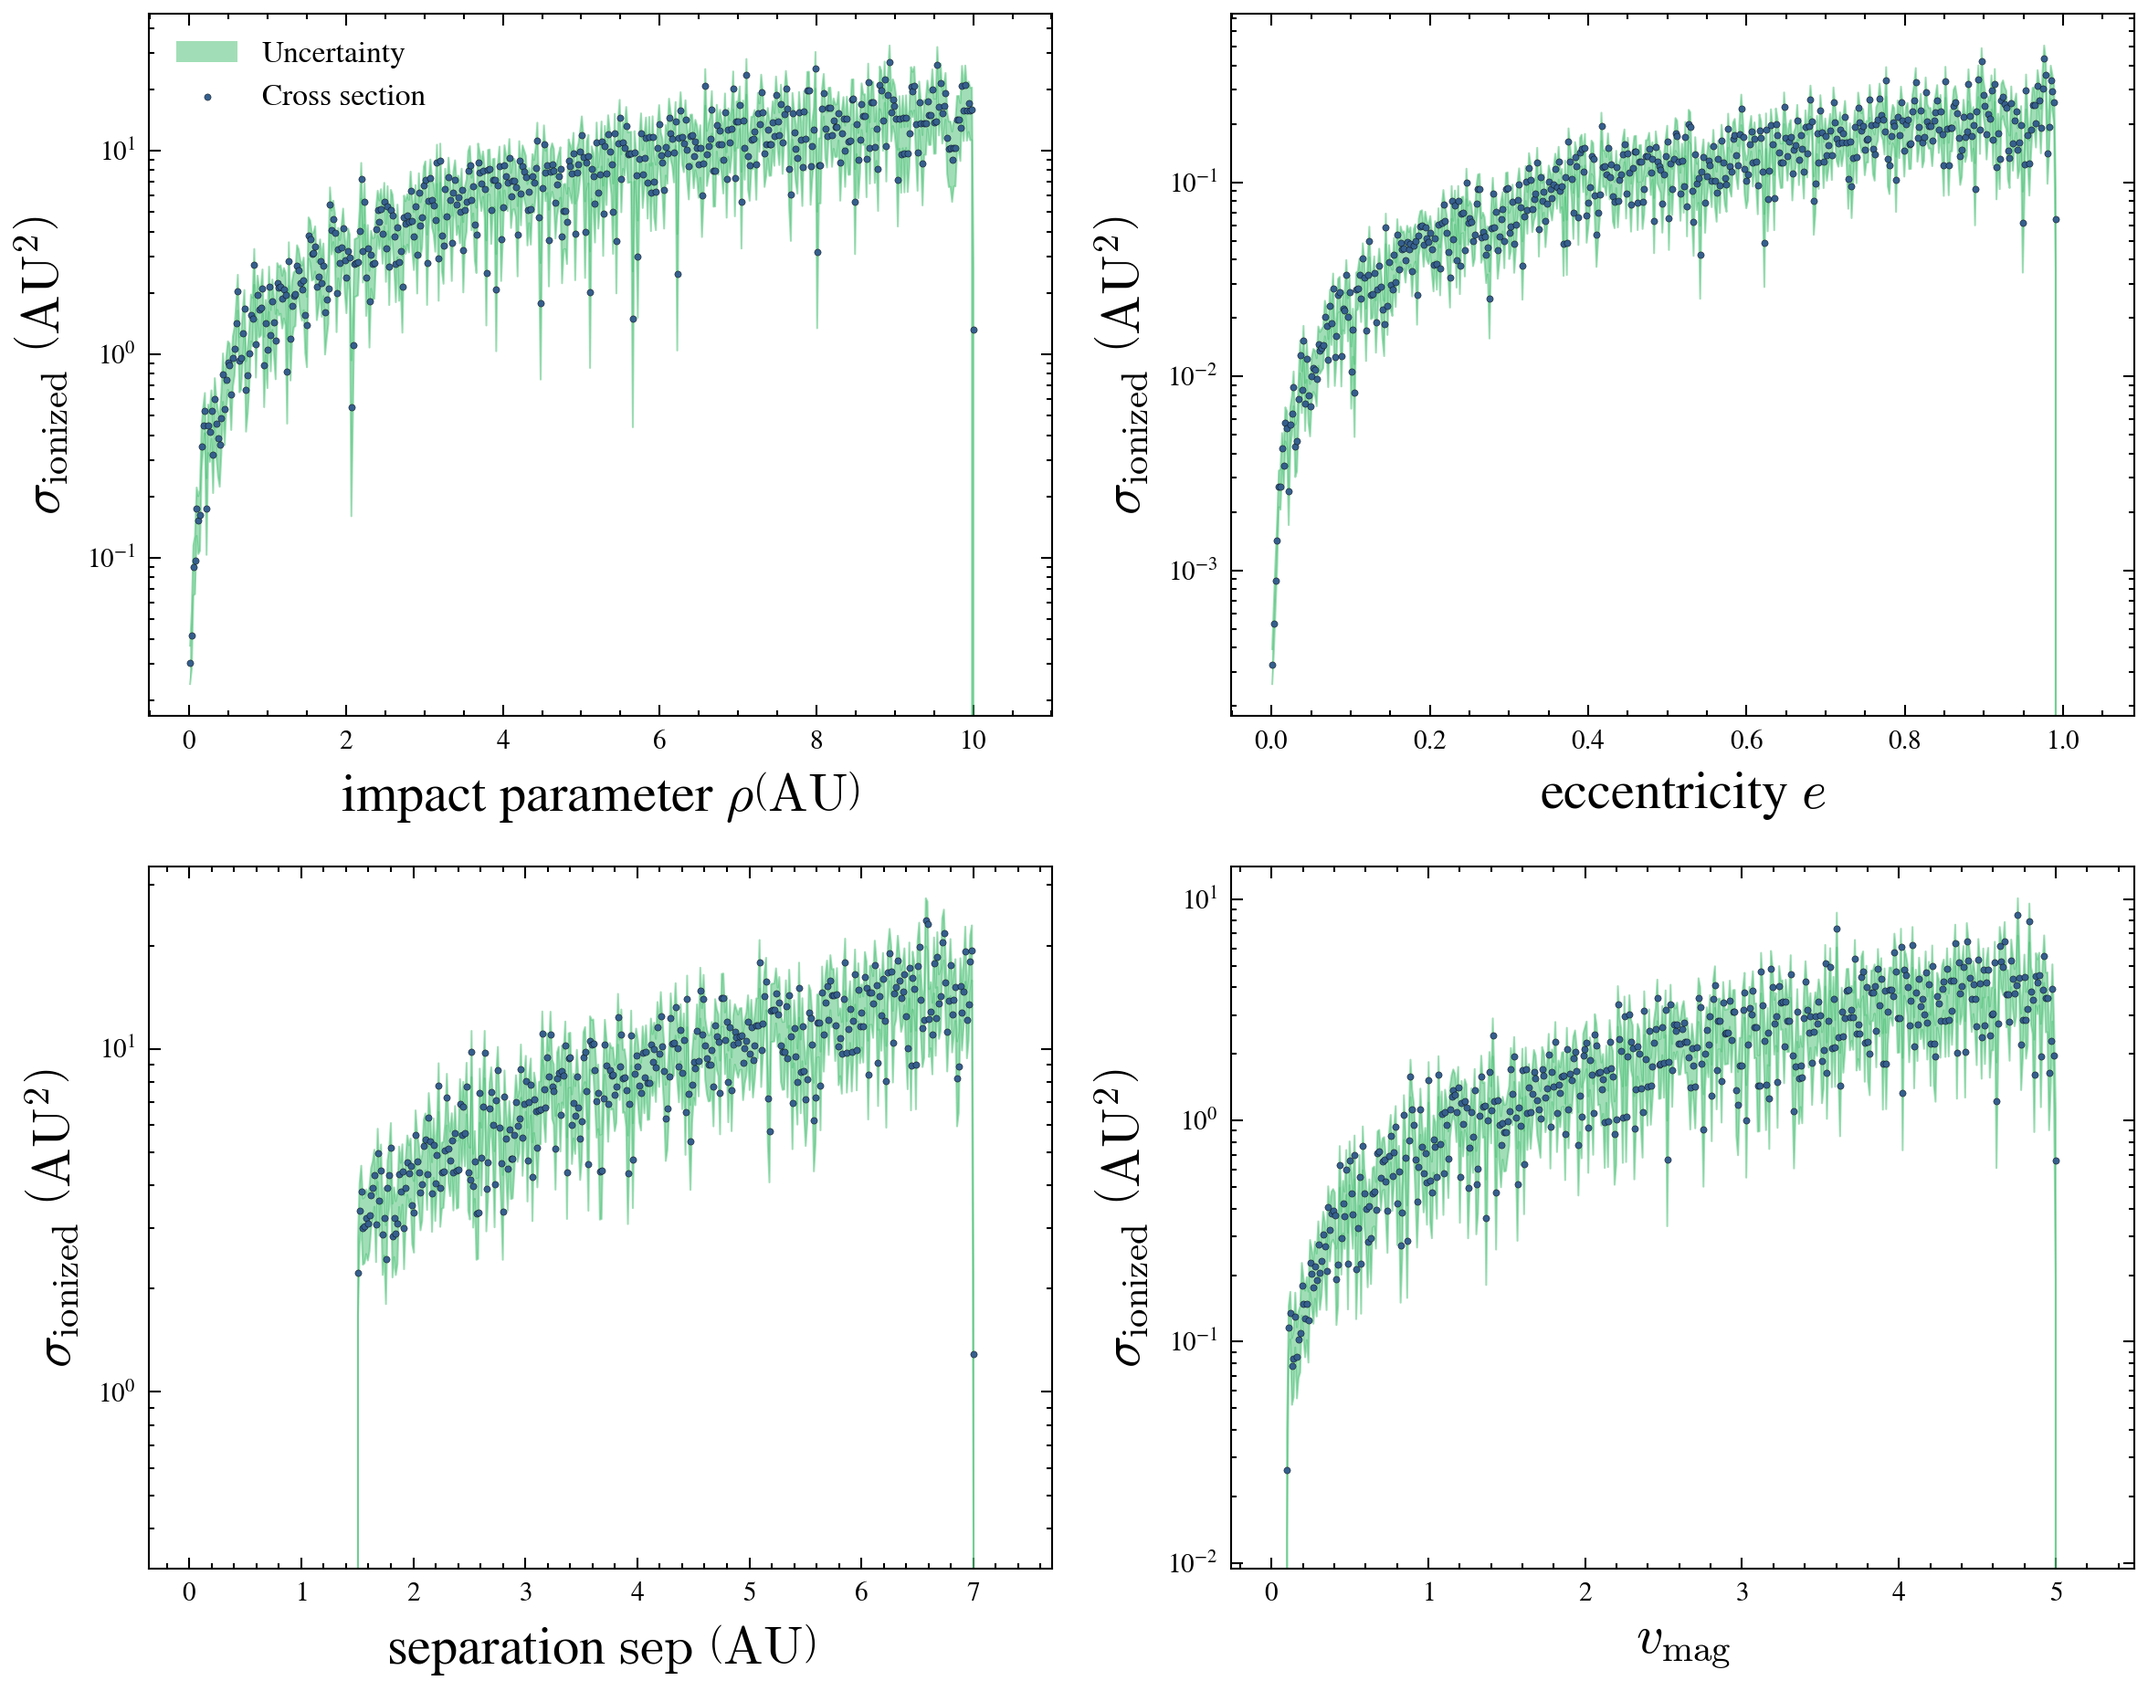
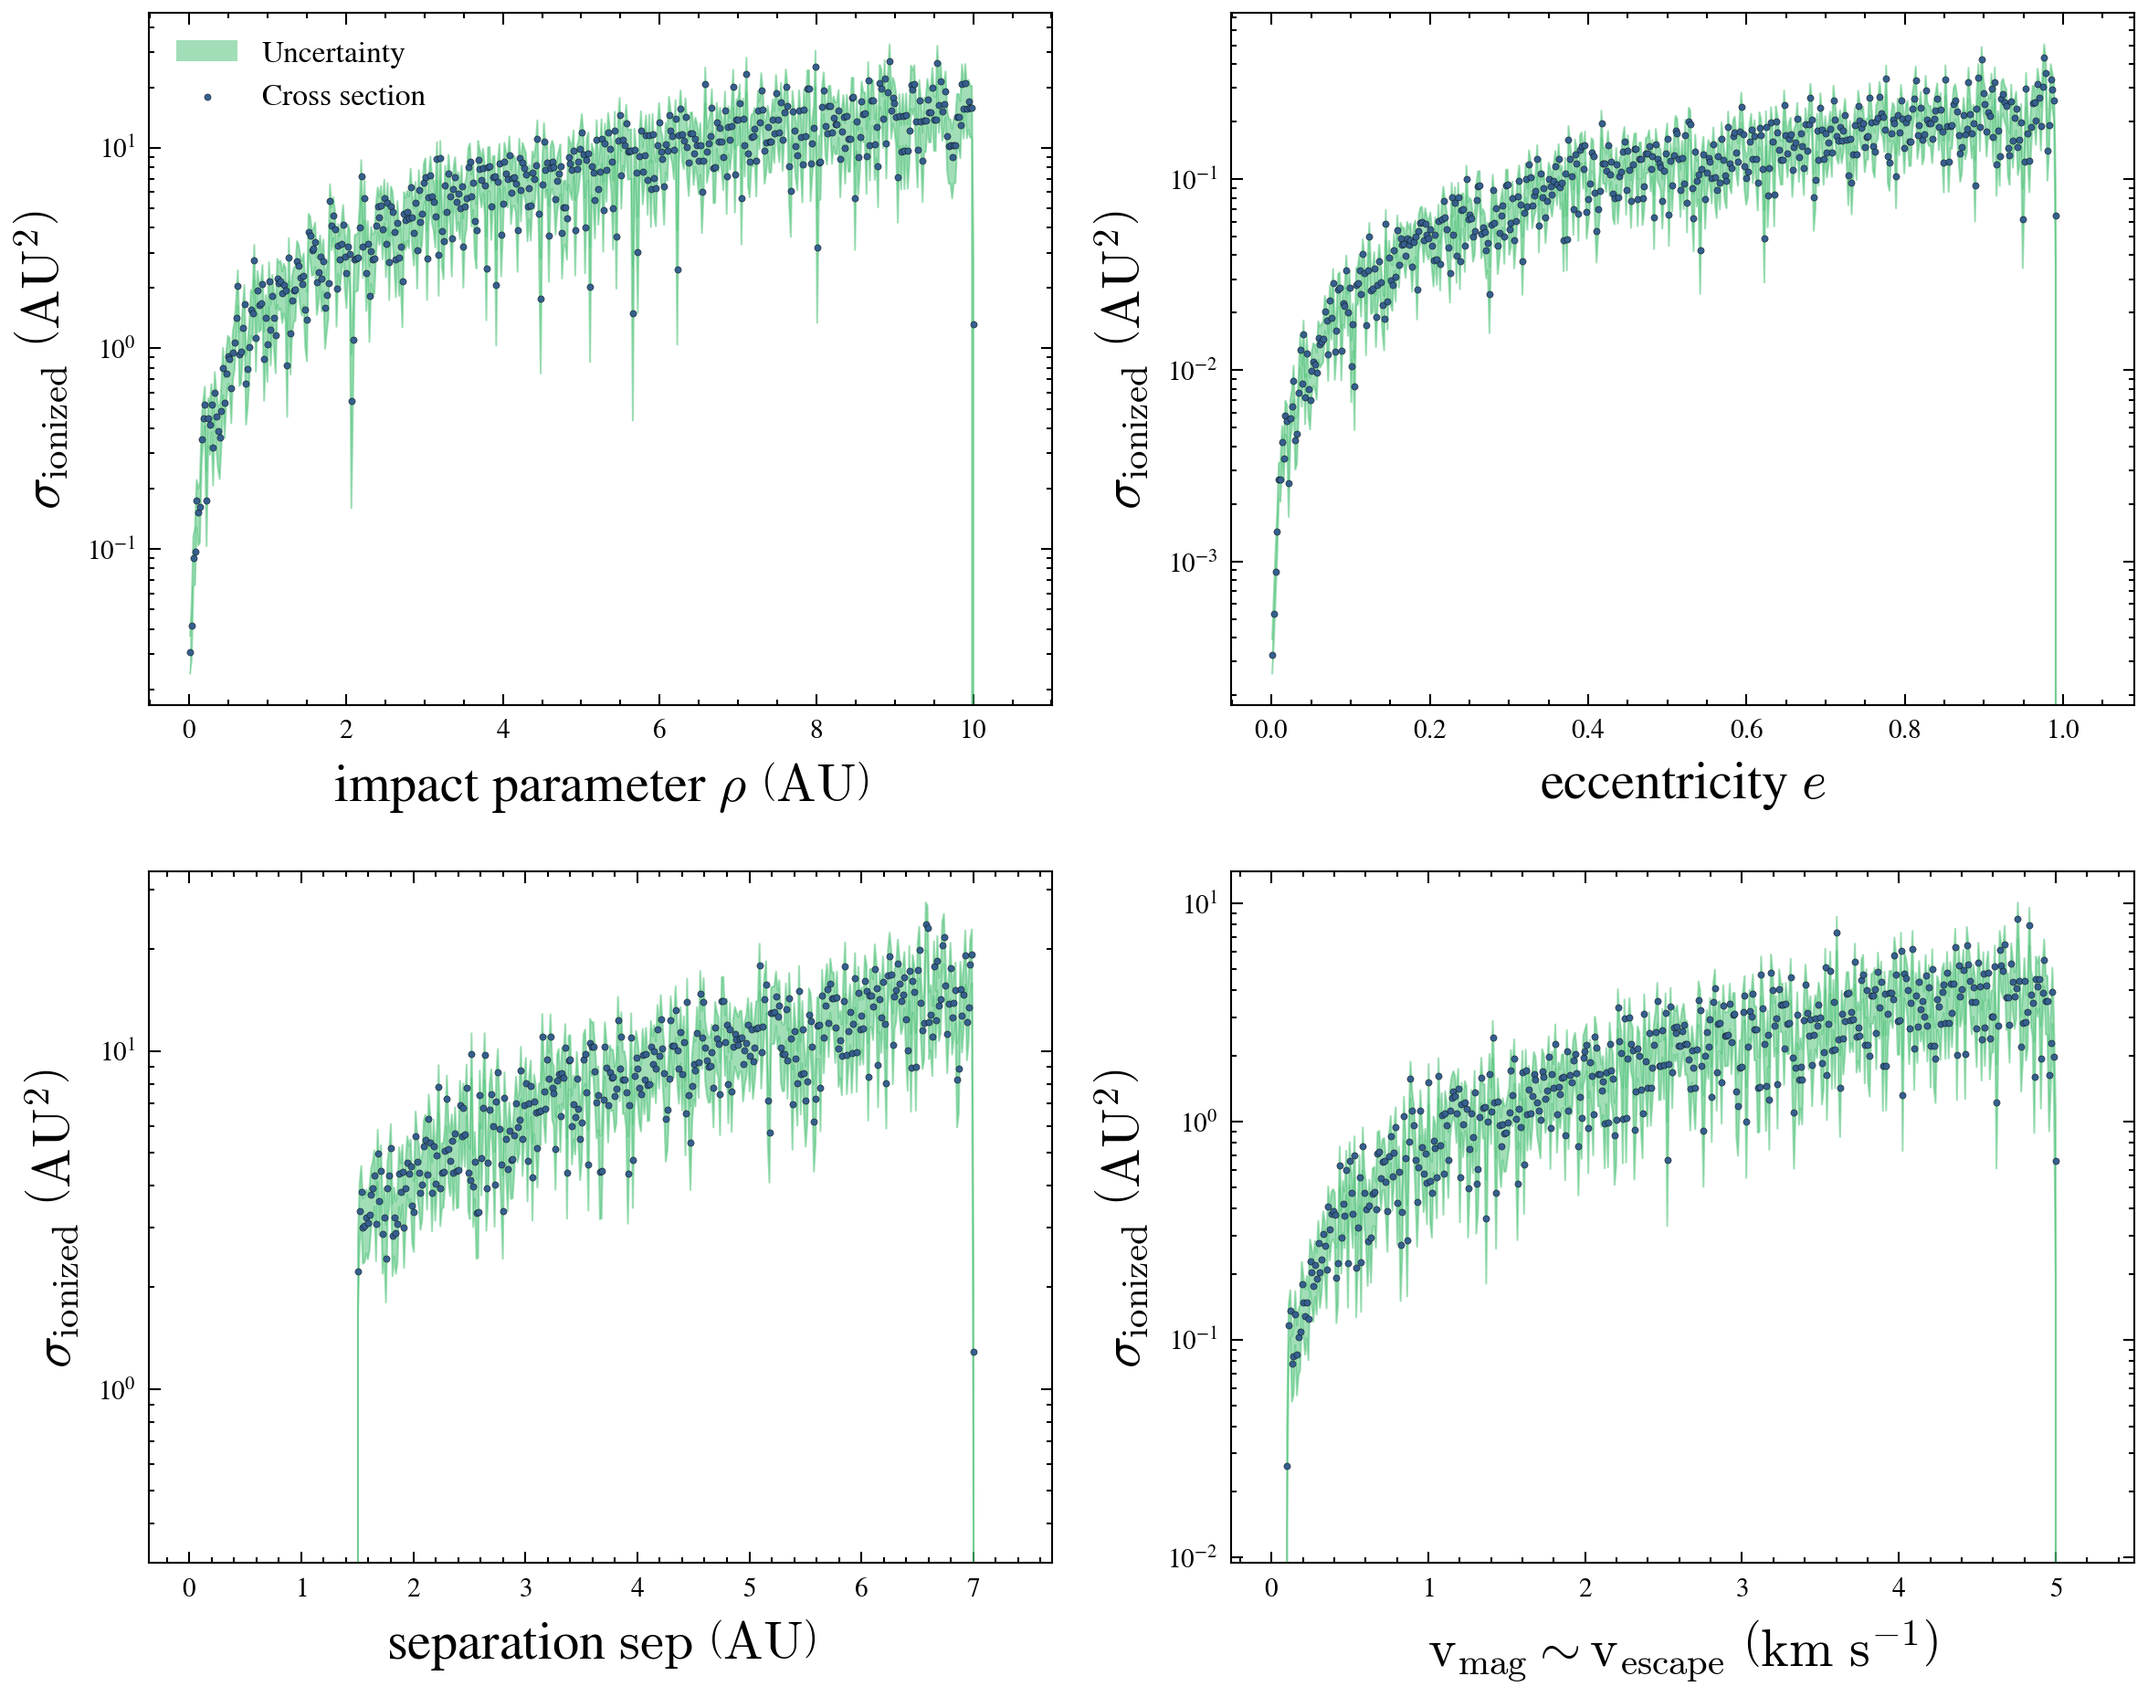
fix: fix cross section plot labels

diff --git a/src/strw_amuse/utils/config.py b/src/strw_amuse/utils/config.py
@@ -58,13 +58,16 @@ BOUNDS: Final = np.array(
 # configs - Plotter param selection
 # ================================================================================================ #
 PARAM_CROSS_SECTION: Final = {
-    r"impact parameter $\rho \left(\mathrm{AU}\right)$": [
+    r"impact parameter $\rho ~\left(\mathrm{AU}\right)$": [
         "impact_parameter_0",
         "impact_parameter_1",
     ],
     r"eccentricity $e$": ["ecc_0", "ecc_1", "ecc_2"],
     r"separation $\mathrm{sep} ~\left(\mathrm{AU}\right)$": ["sep_0", "sep_1", "sep_2"],
-    r"$v_\mathrm{mag}$": ["v_mag_0", "v_mag_1"],
+    r"$\mathrm{v}_\mathrm{mag} \sim \mathrm{v}_\mathrm{escape} ~\left(\mathrm{km}~\mathrm{s}^{-1}\right)$": [
+        "v_mag_0",
+        "v_mag_1",
+    ],
 }
 PARAM_CORNER: Final = [
     "ecc_0",
